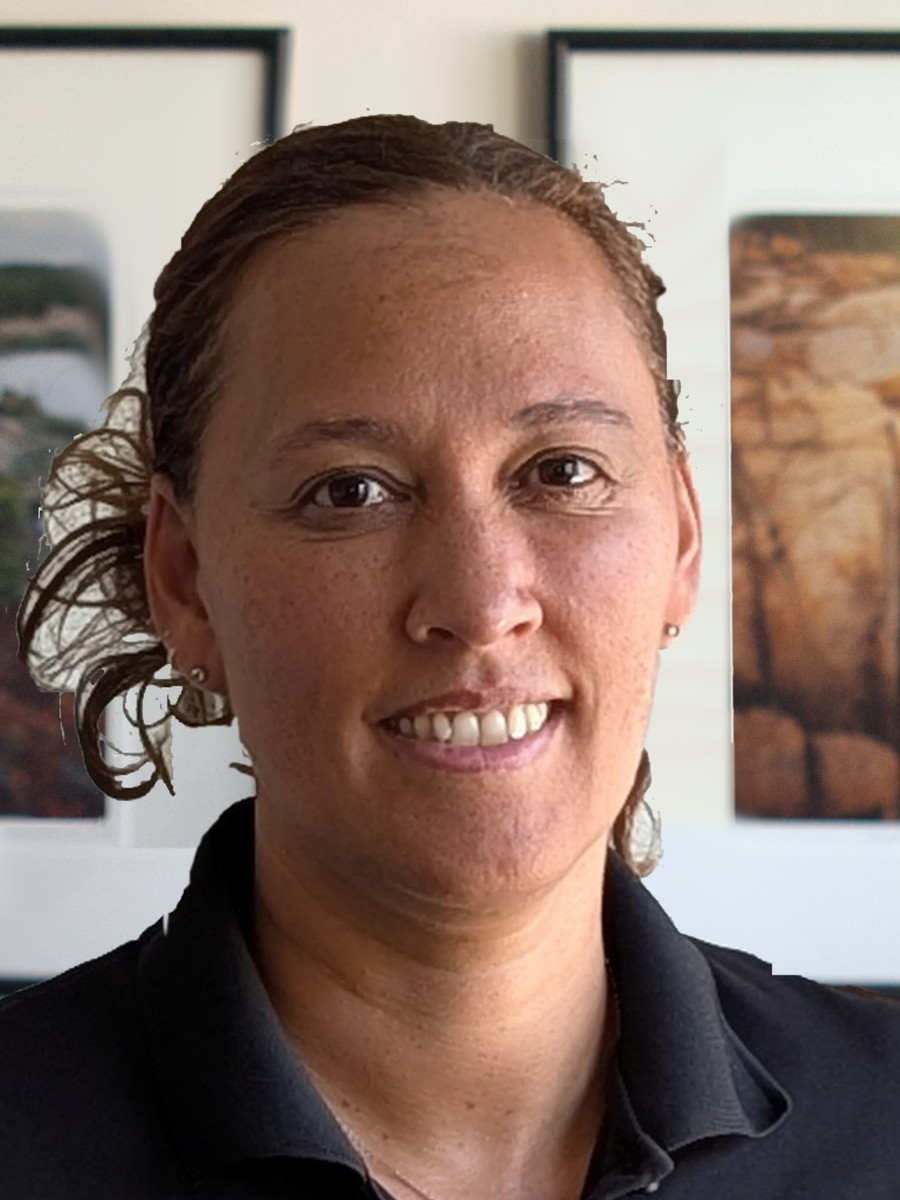
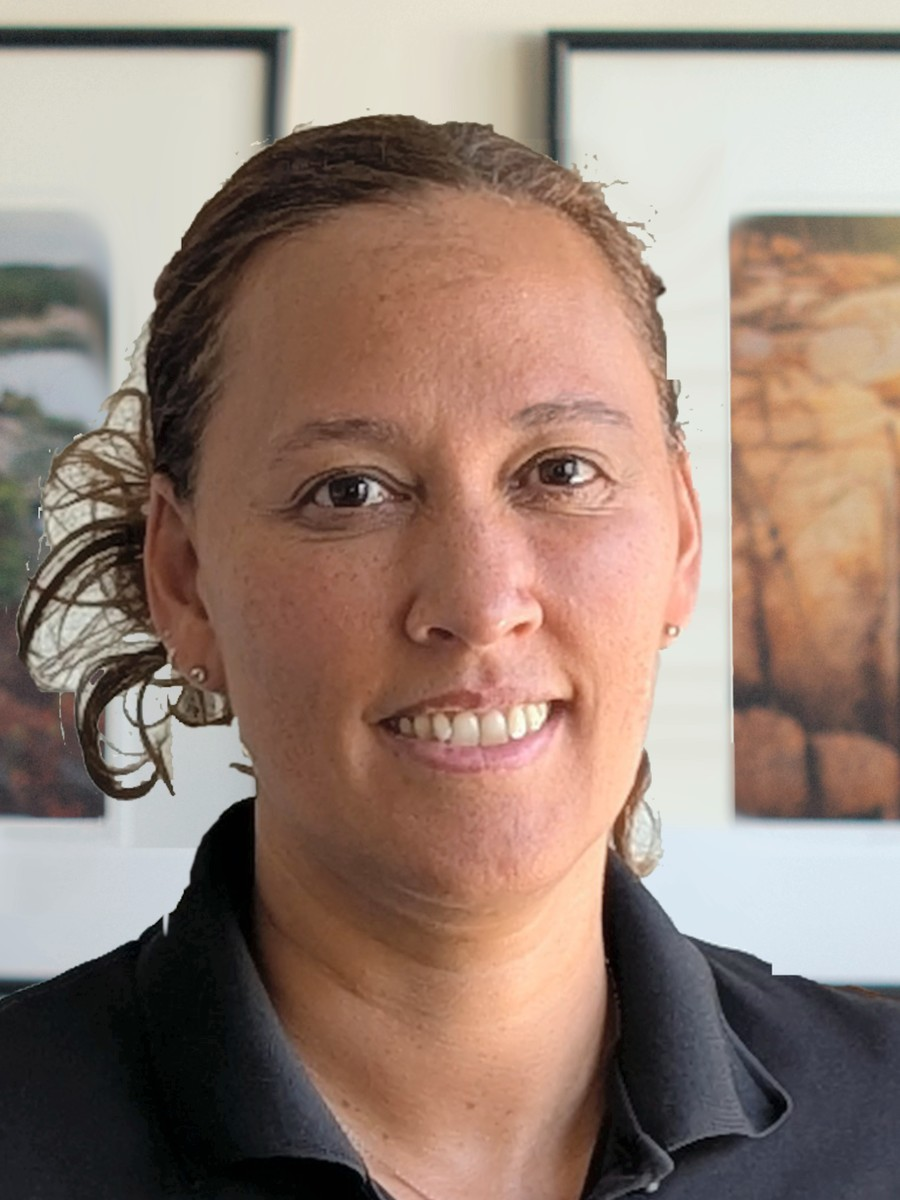
physio updates and teams committed

diff --git a/site/app.js b/site/app.js
@@ -6,7 +6,7 @@
              The ref-quiz ribbon is hidden site-wide.
      false = full site back on. Nothing else to change. */
   var PREVIEW_MODE = true;
-  var LIVE_PAGES = ["concession.html", "raffle.html"];
+  var LIVE_PAGES = ["concession.html", "raffle.html", "physio.html", "registered.html"];
 
   var D = window.CALCUP || {};
   var M = D.meta || {};
@@ -32,7 +32,8 @@
     { href:"raffle.html",     nav:"Raffle",      tile:"Raffle",       icon:"ticket",             primary:true },
     { href:"watch.html",      nav:"Watch live",  tile:"Watch live",   icon:"ti-player-play",     primary:false },
     { href:"sponsors.html",   nav:"Sponsors",    tile:"Sponsors",     icon:"ti-heart-handshake", primary:false },
-    { href:"press.html",      nav:"Press",       tile:"Press kit",    icon:"ti-file-text",       primary:false }
+    { href:"press.html",      nav:"Press",       tile:"Press kit",    icon:"ti-file-text",       primary:false },
+    { href:"registered.html", nav:"Registered",  tile:"Registered teams", icon:"ti-users",       primary:false }
   ];
   function currentPage(){ var p=(location.pathname.split("/").pop()||"index.html"); return p||"index.html"; }
   function renderNav(){
@@ -486,6 +487,27 @@
   }
 
   /* ---------- physiotherapy ---------- */
+  /* ---------- registered teams (registered.html + home while in preview) ---------- */
+  /* Data: D.registration = {M:[{name,logo,host}], W:[...]}, generated from the
+     Registration 2027 tab (Entry Confirmed, or a Status of host / deposit paid). */
+  function regInitials(n) { return String(n).split(/\s+/).filter(function (w) { return /^[A-Za-z]/.test(w); }).slice(0, 2).map(function (w) { return w.charAt(0).toUpperCase(); }).join(""); }
+  function registeredHTML() {
+    var R = D.registration;
+    if (!R || (!(R.M || []).length && !(R.W || []).length)) return '<p class="muted">The list of registered teams is being updated. Check back shortly.</p>';
+    function col(label, list) {
+      list = list || [];
+      return '<div class="reg-col"><div class="sec-head"><h2>' + label + '</h2><span class="note">' + list.length + (list.length === 1 ? ' team' : ' teams') + '</span></div>' +
+        (list.length ? '<div class="reg-grid">' + list.map(function (t) {
+          var ini = regInitials(t.name);
+          return '<div class="card reg-card"><div class="reg-logo"><img src="assets/logos/' + t.logo + '.png" alt="' + t.name + '" onerror="this.parentNode.innerHTML=\'<span class=&quot;reg-ini&quot;>' + ini + '</span>\'"></div>' +
+            '<div class="reg-name">' + t.name + '</div>' + (t.host ? '<span class="reg-host">Host</span>' : '') + '</div>';
+        }).join("") + '</div>' : '<p class="muted">No team confirmed yet.</p>') + '</div>';
+    }
+    return '<div class="reg-cols">' + col("Men", R.M) + col("Women", R.W) + '</div>' +
+      '<p class="reg-foot muted">Clubs: confirm your entry and $300 deposit by October 15, 2026 at <a href="mailto:calcup@calheat.com">calcup@calheat.com</a>.</p>';
+  }
+  function renderRegistered(el) { el.innerHTML = registeredHTML(); }
+
   function renderPhysio(el) {
     var p = D.physio || {}, L = p.lead || {};
     var c = [];
@@ -804,7 +826,8 @@
         _g.innerHTML = '<section class="gate"><div class="gate-q"><i class="ti ti-lock"></i></div><h2>This page goes live as we get closer to CalCup 2027</h2><p class="muted">Schedule, teams and results open closer to the tournament: Jan 29 to 31, 2027 &middot; Fremont, CA.</p><a class="gate-cta" href="concession.html"><i class="ti ti-shopping-bag"></i> Merch pre-orders &amp; concession are open &rarr;</a> <a class="gate-cta" href="raffle.html" style="margin-left:8px">'+TICKET_SVG+' Raffle prizes &rarr;</a></section>';
         if (currentPage() === "index.html") {
           // Home only: raffle announcement above the preview notice
-          _g.innerHTML = '<a class="home-raffle" href="raffle.html"><span class="hr-ico">'+TICKET_SVG+'</span><span class="hr-txt"><b>Enter our raffle at the tournament</b> for a chance to win a game-worn USAM N&icirc;mes Gard jersey from Slovenian EHF Hall of Famer Vid Kavti&#269;nik.</span><span class="hr-cta">See the prizes &rarr;</span></a>' + _g.innerHTML;
+          _g.innerHTML = '<a class="home-raffle" href="raffle.html"><span class="hr-ico">'+TICKET_SVG+'</span><span class="hr-txt"><b>Enter our raffle at the tournament</b> for a chance to win a game-worn USAM N&icirc;mes Gard jersey from Slovenian EHF Hall of Famer Vid Kavti&#269;nik.</span><span class="hr-cta">See the prizes &rarr;</span></a>' +
+            '<section class="home-reg"><div class="sec-head"><h2>Registered teams</h2><a class="note" href="registered.html">Full page &rarr;</a></div>' + registeredHTML() + '</section>' + _g.innerHTML;
         }
         if (_start && _start.parentNode) _start.parentNode.insertBefore(_g, _start.nextSibling); else document.body.appendChild(_g);
         return; // skip all data rendering on gated pages
@@ -858,6 +881,7 @@
     var spn = document.getElementById("sponsors"); if (spn) renderSponsors(spn);
     var his = document.getElementById("history"); if (his) renderHistory(his);
     var phy = document.getElementById("physio"); if (phy) renderPhysio(phy);
+    var reg = document.getElementById("registered"); if (reg) renderRegistered(reg);
     var prs = document.getElementById("press"); if (prs) renderPress(prs);
     var lot = document.getElementById("lottery"); if (lot) renderLottery(lot);
     var cot = document.getElementById("concession-teaser"); if (cot) renderConcessionTeaser(cot);

diff --git a/site/registered.html b/site/registered.html
@@ -1,0 +1,54 @@
+<!DOCTYPE html>
+<html lang="en">
+<head>
+<meta charset="utf-8">
+<meta name="viewport" content="width=device-width, initial-scale=1">
+<title>Registered teams — CalCup 2027</title>
+<link rel="stylesheet" href="assets/icons.css">
+<link rel="stylesheet" href="assets/fonts.css">
+<link rel="stylesheet" href="assets/styles.css">
+</head>
+<body>
+
+<header class="nav">
+  <div class="wrap">
+    <a class="brand" href="index.html" aria-label="CalCup home"><span class="brandmark"><span class="bm-cal">CAL</span><span class="bm-cup">CUP</span> <span class="bm-cal">XX</span></span></a>
+    <button class="burger" id="burger" aria-label="Menu"><i class="ti ti-menu-2"></i></button>
+    <nav class="menu" id="menu">
+      <a href="index.html">Home</a>
+      <a href="schedule.html">Schedule</a>
+      <a href="standings.html">Standings</a>
+      <a href="scorers.html">Top scorers</a>
+      <a href="teams.html">Teams</a>
+      <a href="watch.html">Watch live</a>
+      <a href="info.html">Info</a>
+      <a href="physio.html">Physio</a>
+      <a href="press.html">Press</a>
+      <a href="concession.html">Concession</a>
+    </nav>
+  </div>
+</header>
+<a class="refbar" href="refquiz.html"><span class="refbar-txt"><i class="ti ti-flag"></i> <b>You think you can ref?</b> Test your rules knowledge &mdash; 10-second challenge, live leaderboard.</span><span class="refbar-btn">Play now &rarr;</span></a>
+
+<section class="hero" style="padding:30px 0" data-hero="1.jpg">
+  <div class="wrap">
+      <img class="hero-logo" src="assets/calheat-logo.png" alt="San Francisco CalHeat">
+    <p class="kicker">CalCup XX &middot; Jan 29 to 31, 2027</p>
+    <h1 style="font-size:30px">Registered teams</h1>
+    <p class="sub">Clubs confirmed so far, by division. Updated as entries come in.</p>
+  </div>
+</section>
+
+<div class="wrap"><section><div id="registered"></div></section></div>
+
+<section class="partners">
+  <div class="wrap">
+    <div class="grp"><span class="lbl">Hosted by</span><img src="assets/calheat-logo.png" alt="San Francisco CalHeat"></div>
+    <div class="grp"><span class="lbl">Sanctioned by</span><img src="assets/usath-logo.png" alt="USA Team Handball"></div>
+  </div>
+</section>
+
+<script src="data/data.js"></script>
+<script src="app.js"></script>
+</body>
+</html>

diff --git a/site/assets/styles.css b/site/assets/styles.css
@@ -557,3 +557,16 @@ table.lb tr.me td{background:var(--orange-tint)}
 .home-raffle .hr-txt b{color:#fff}
 .home-raffle .hr-cta{flex:none;font-weight:700;color:var(--orange);white-space:nowrap}
 @media (max-width:600px){.home-raffle{flex-wrap:wrap}.home-raffle .hr-cta{width:100%}}
+
+/* Registered teams (registered.html + home block while in preview) */
+.home-reg{margin-top:26px}
+.reg-cols{display:grid;grid-template-columns:1fr 1fr;gap:28px}
+.reg-grid{display:grid;grid-template-columns:repeat(auto-fill,minmax(150px,1fr));gap:12px}
+.reg-card{display:flex;flex-direction:column;align-items:center;text-align:center;gap:8px;padding:16px 12px}
+.reg-logo{height:72px;width:100%;display:flex;align-items:center;justify-content:center}
+.reg-logo img{max-height:72px;max-width:100%;object-fit:contain}
+.reg-ini{width:64px;height:64px;border-radius:50%;background:var(--navy);color:#fff;font-weight:800;font-size:22px;display:flex;align-items:center;justify-content:center;letter-spacing:.5px}
+.reg-name{font-weight:700;color:var(--ink);font-size:14px;line-height:1.3}
+.reg-host{font-size:11px;font-weight:700;text-transform:uppercase;letter-spacing:.5px;color:var(--orange);border:1px solid var(--orange);border-radius:999px;padding:2px 8px}
+.reg-foot{margin:18px 0 0;font-size:14px}
+@media (max-width:720px){.reg-cols{grid-template-columns:1fr;gap:10px}}

diff --git a/site/index.html b/site/index.html
@@ -39,7 +39,7 @@
       <div class="l1"><span class="ca">CALIFORNIA</span> <span class="cu">CUP</span></div>
       <div class="l2"><span class="x">XX<sup>th</sup></span> EDITION</div>
     </div>
-    <p class="sub">Jan 29 – Feb 1, 2027 · Fremont, CA · 20 years of elite handball</p>
+    <p class="sub">Jan 29 to 31, 2027 · Fremont, CA · 20 years of elite handball</p>
     <div class="btns">
       <a class="btn btn-red btn-lg" id="stream-btn" href="watch.html">Watch live</a>
       <a class="btn btn-ghost btn-lg" href="schedule.html">Schedule</a>
